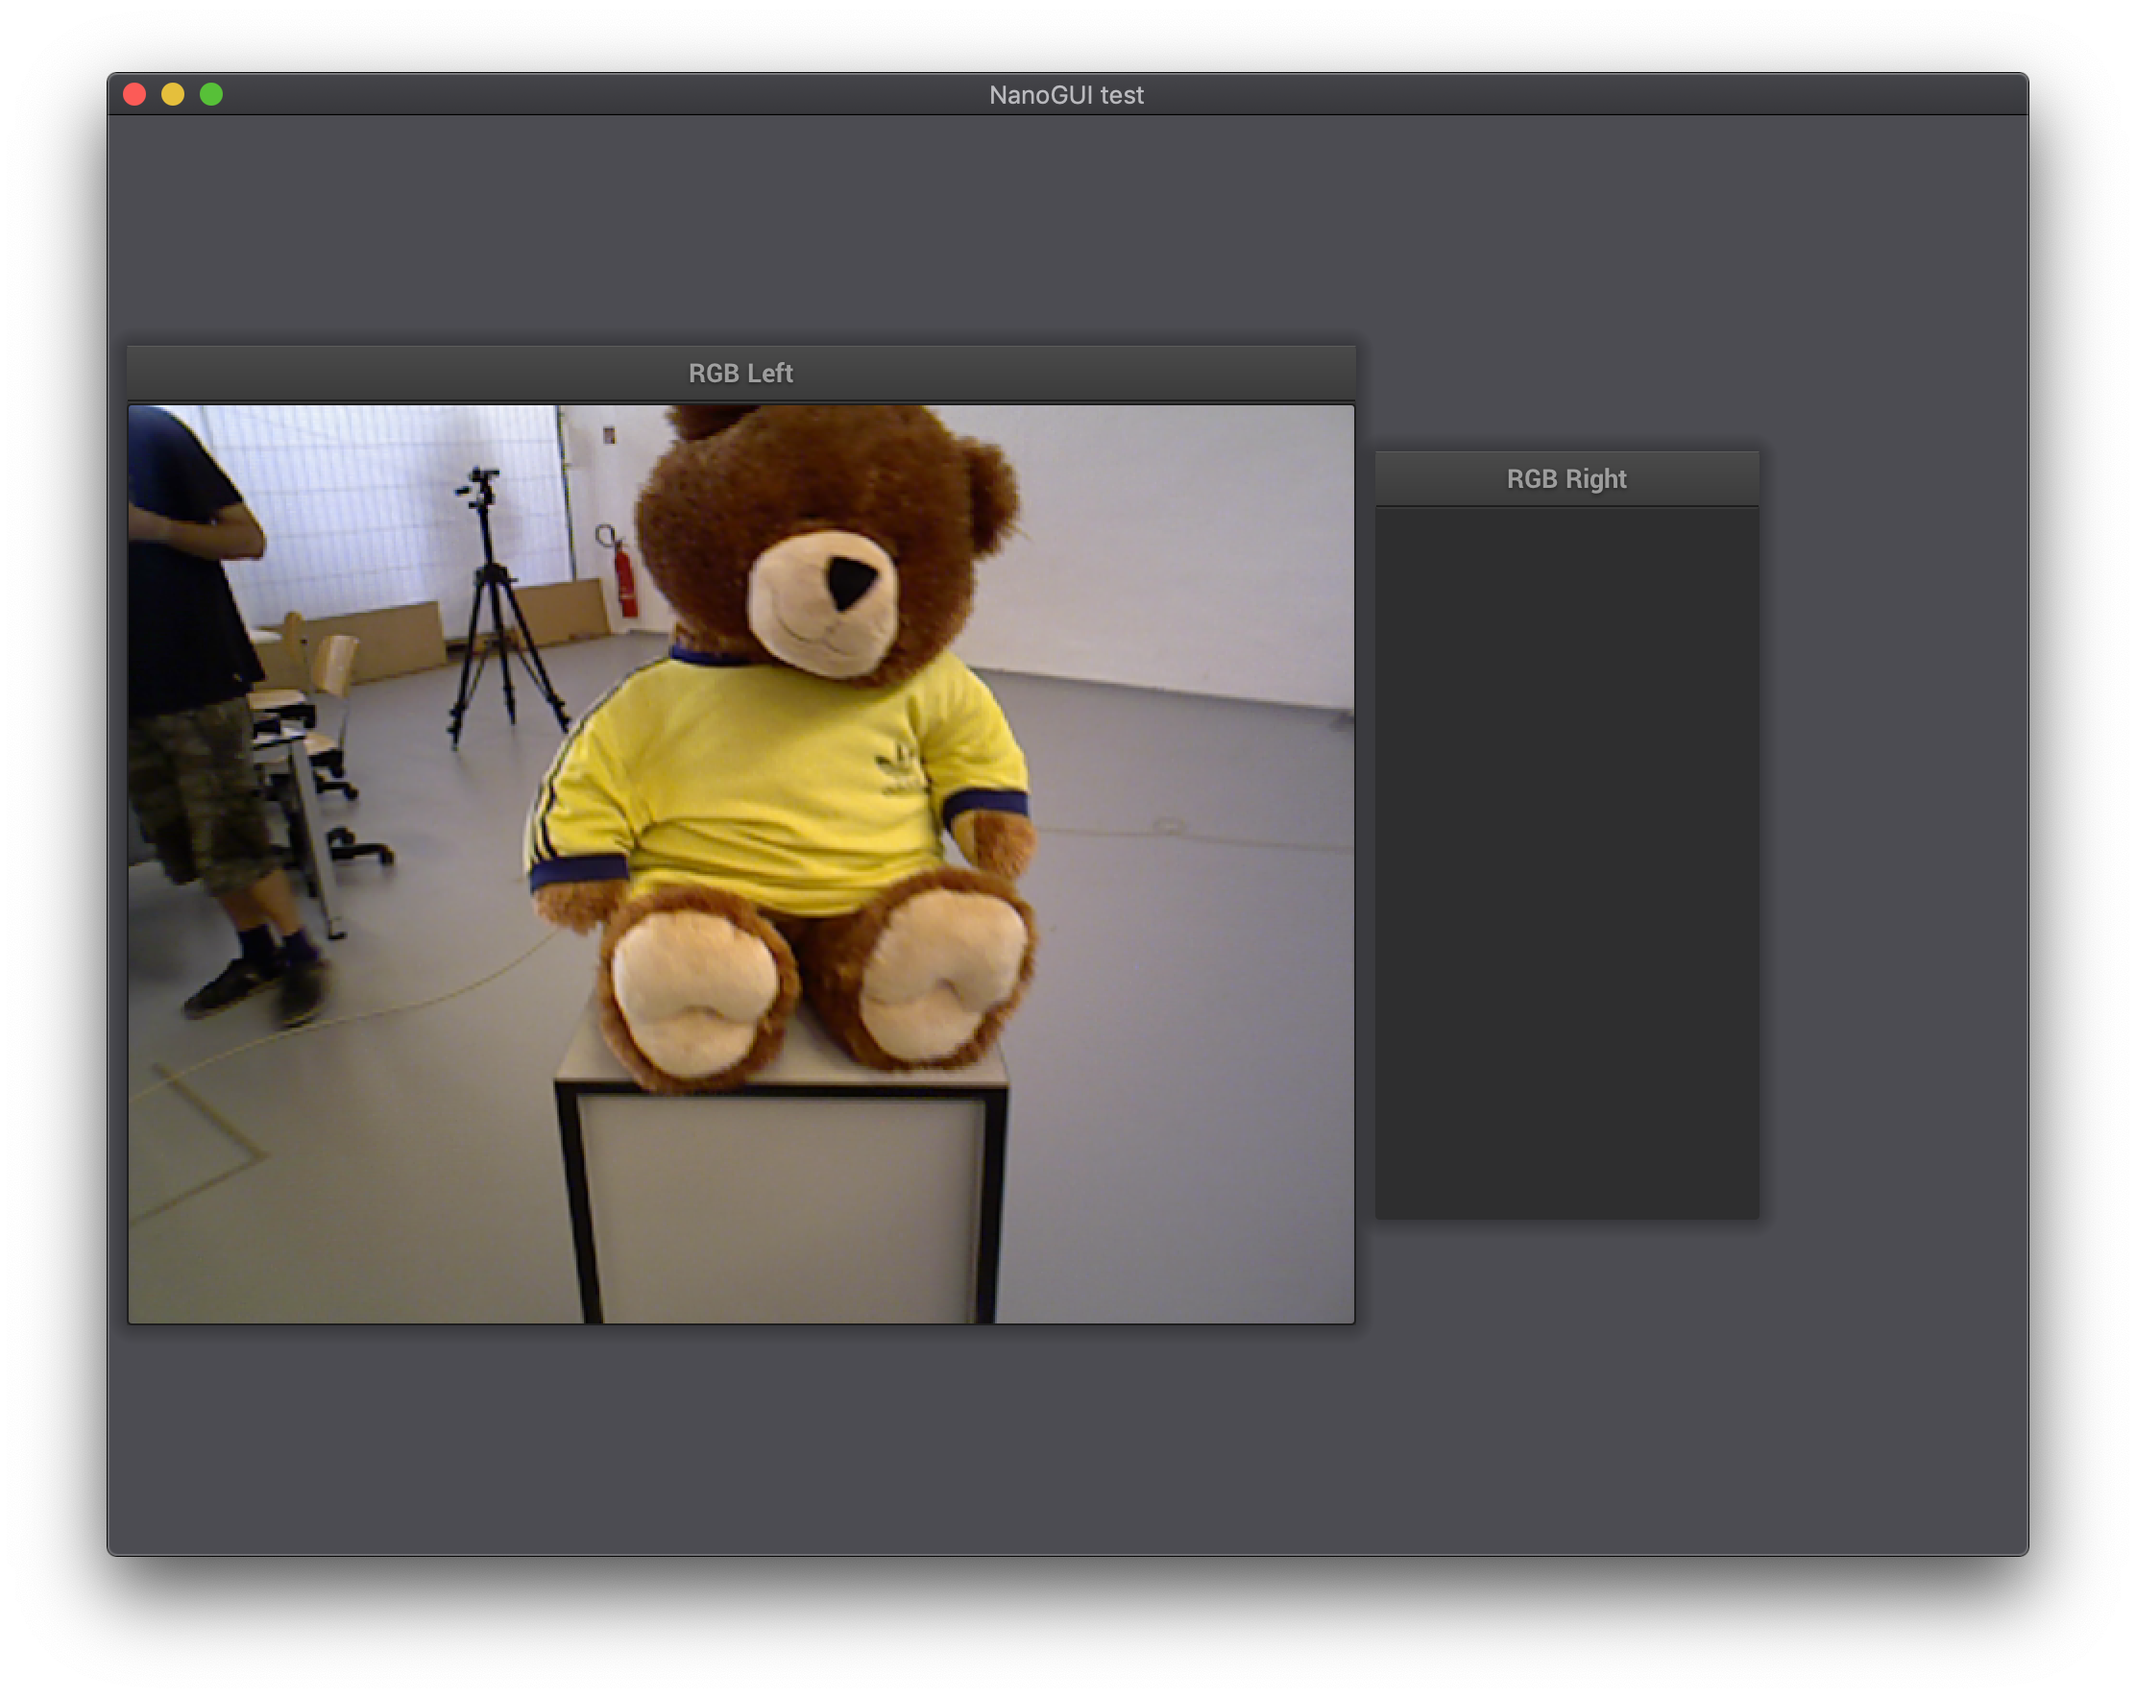
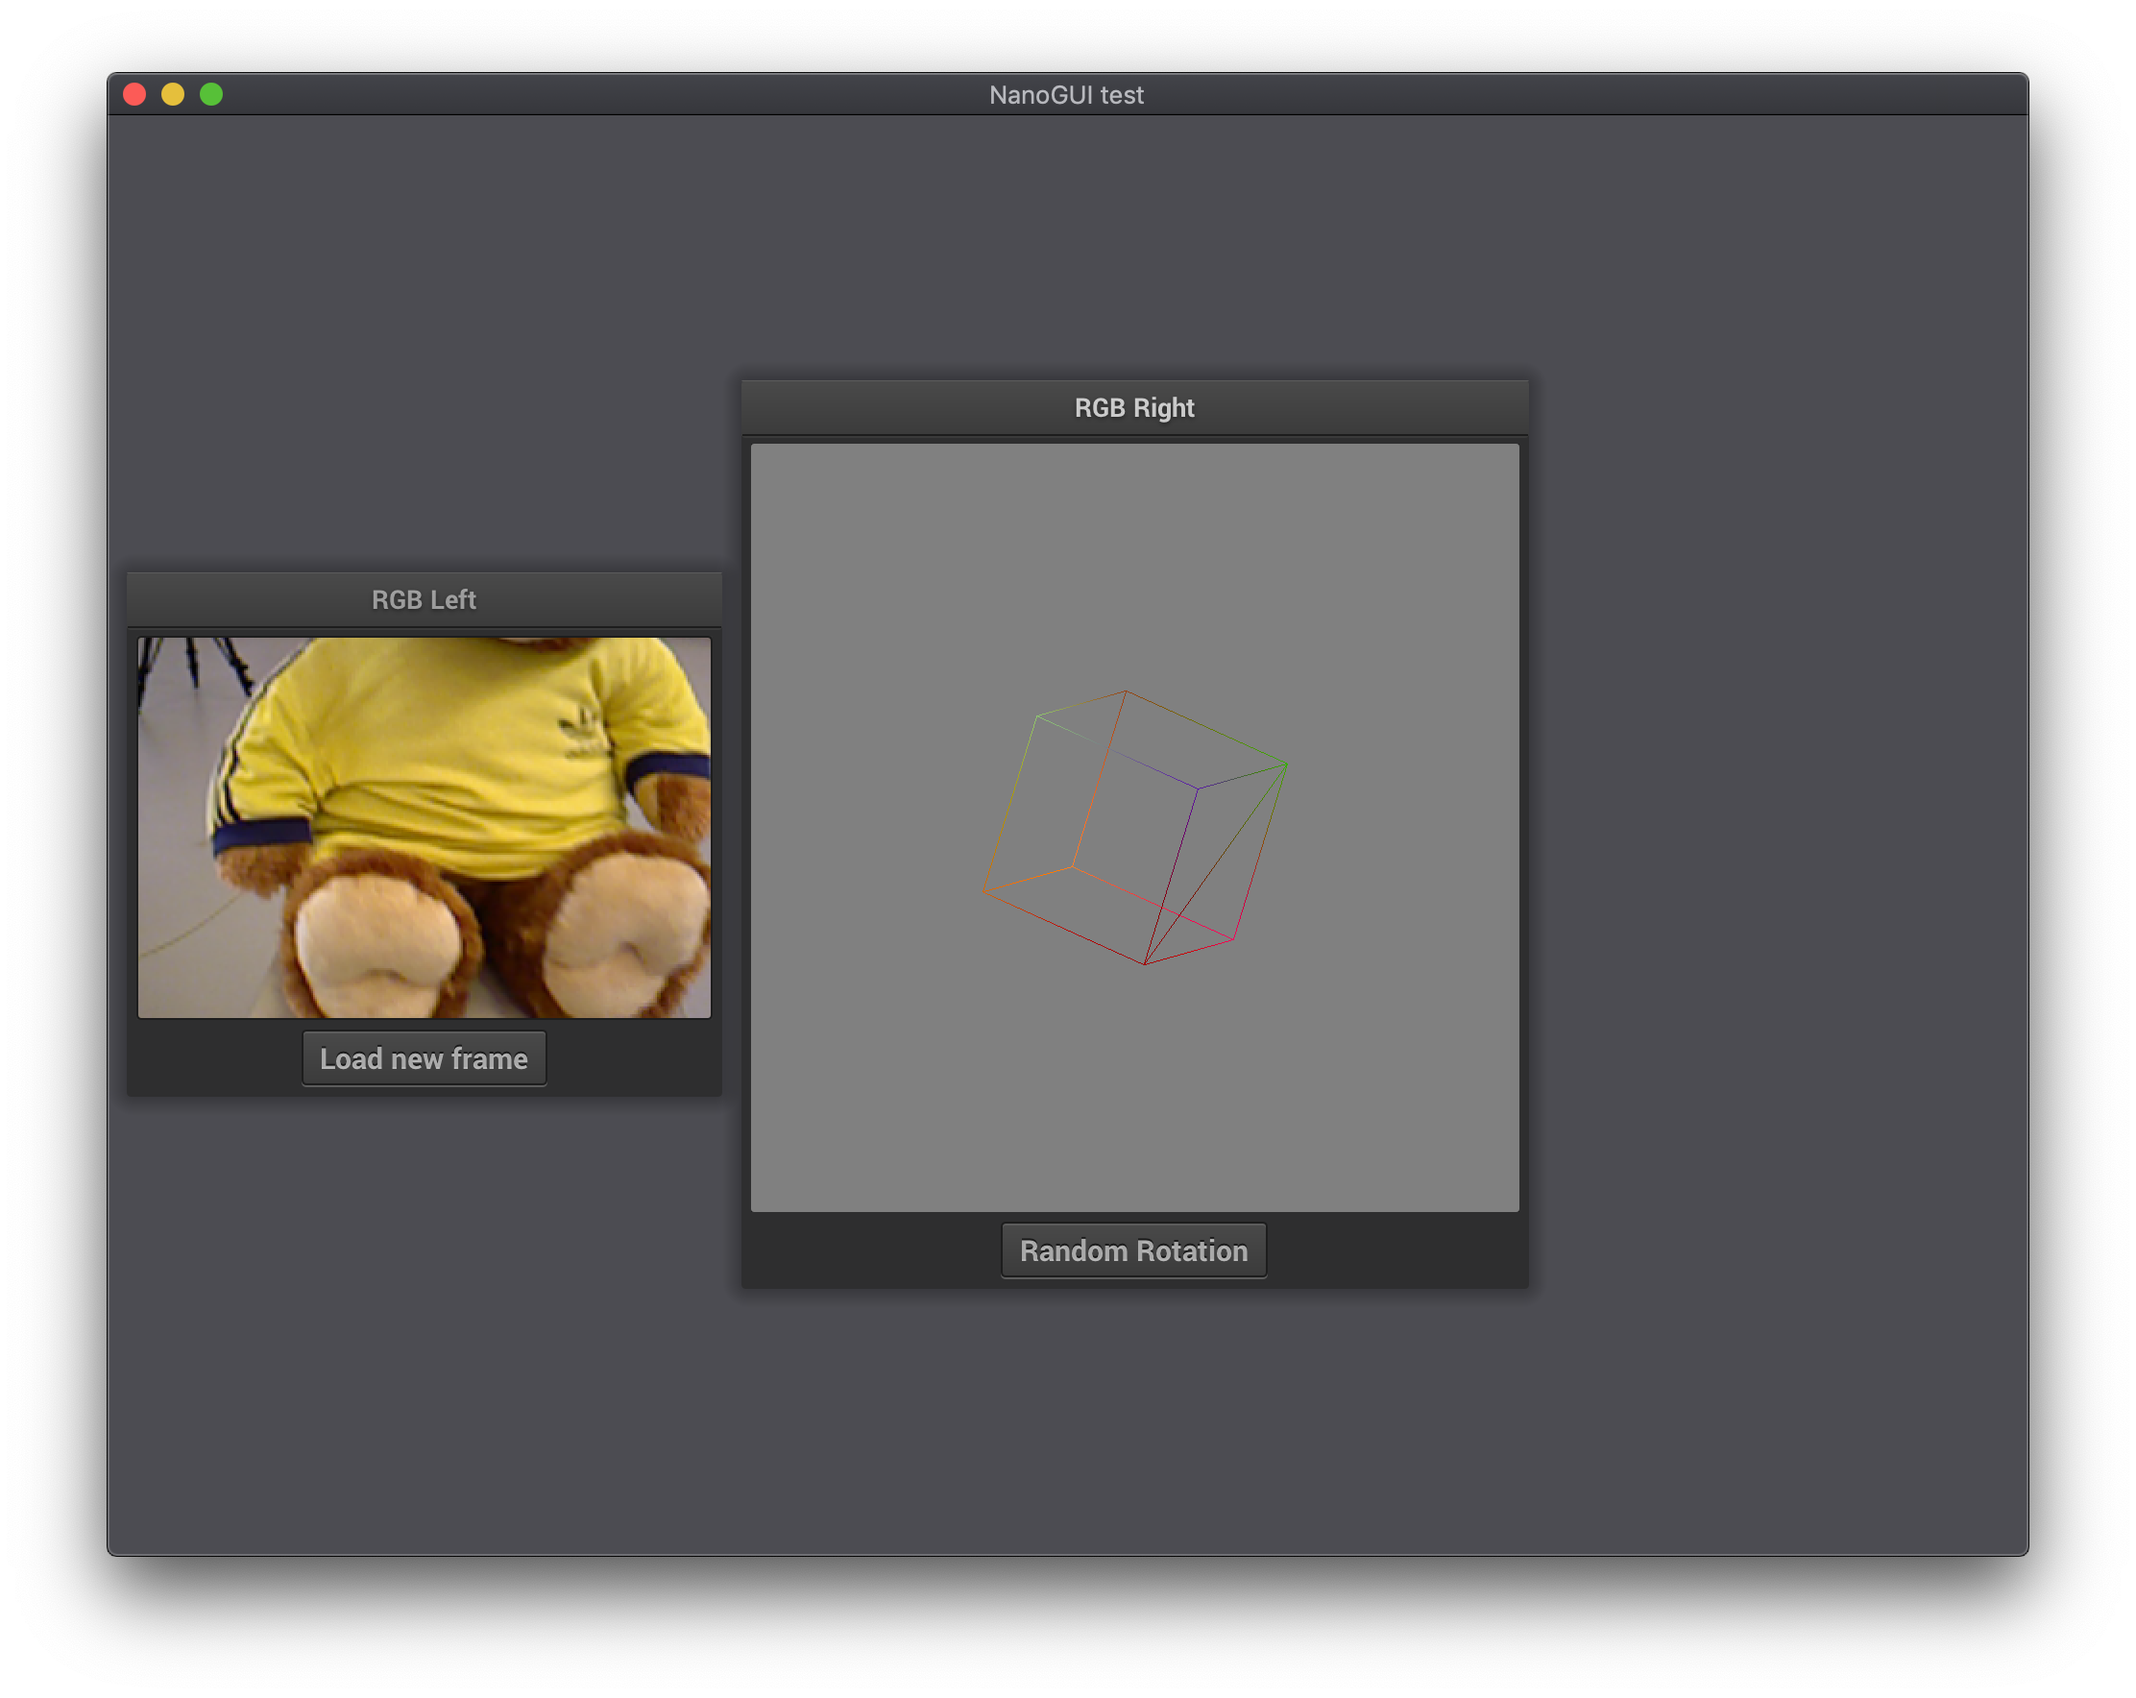
updated screenshot & render lines instead of tris

diff --git a/nanoVtkCanvas.h b/nanoVtkCanvas.h
@@ -111,7 +111,7 @@ public:
 
         glEnable(GL_DEPTH_TEST);
         /* Draw 12 triangles starting at index 0 */
-        mShader.drawIndexed(GL_TRIANGLES, 0, 12);
+        mShader.drawIndexed(GL_LINE_STRIP, 0, 36);
         glDisable(GL_DEPTH_TEST);
     }
 
